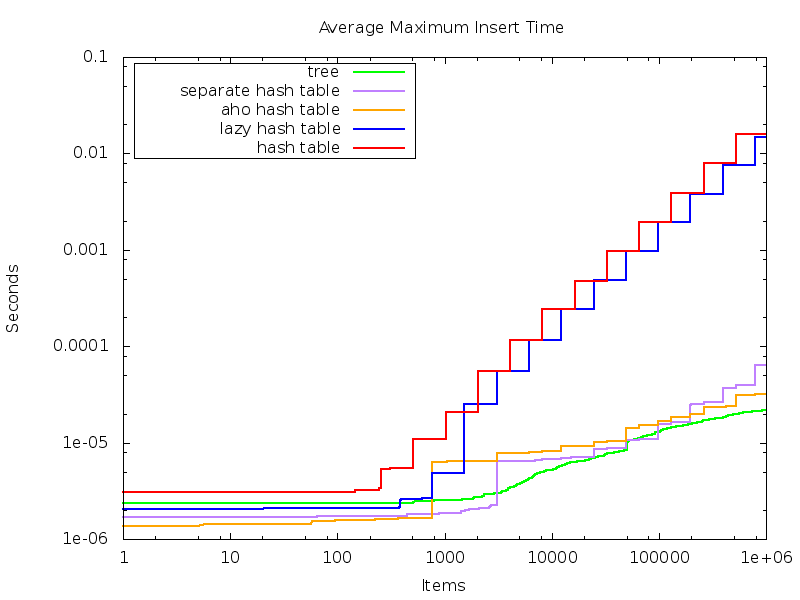
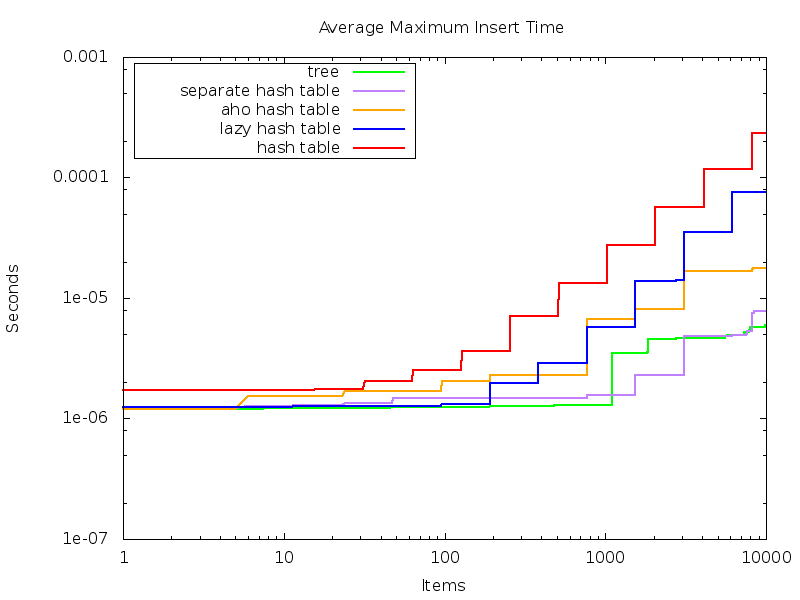
Make "sudo" configurable

diff --git a/src/benchmark/insert-maxtime.cc b/src/benchmark/insert-maxtime.cc
@@ -80,8 +80,8 @@ void print_test(std::vector<std::pair<unsigned, double> > x) {
 }
 
 int main(int argc, char ** argv) {
-  unsigned size = 1000000;//00;
-  unsigned samples = 100;
+  unsigned size = 10000;//00;
+  unsigned samples = 10;
   if (4 == argc) {
     size = read<unsigned>(argv[2]);
     samples = read<unsigned>(argv[3]);
